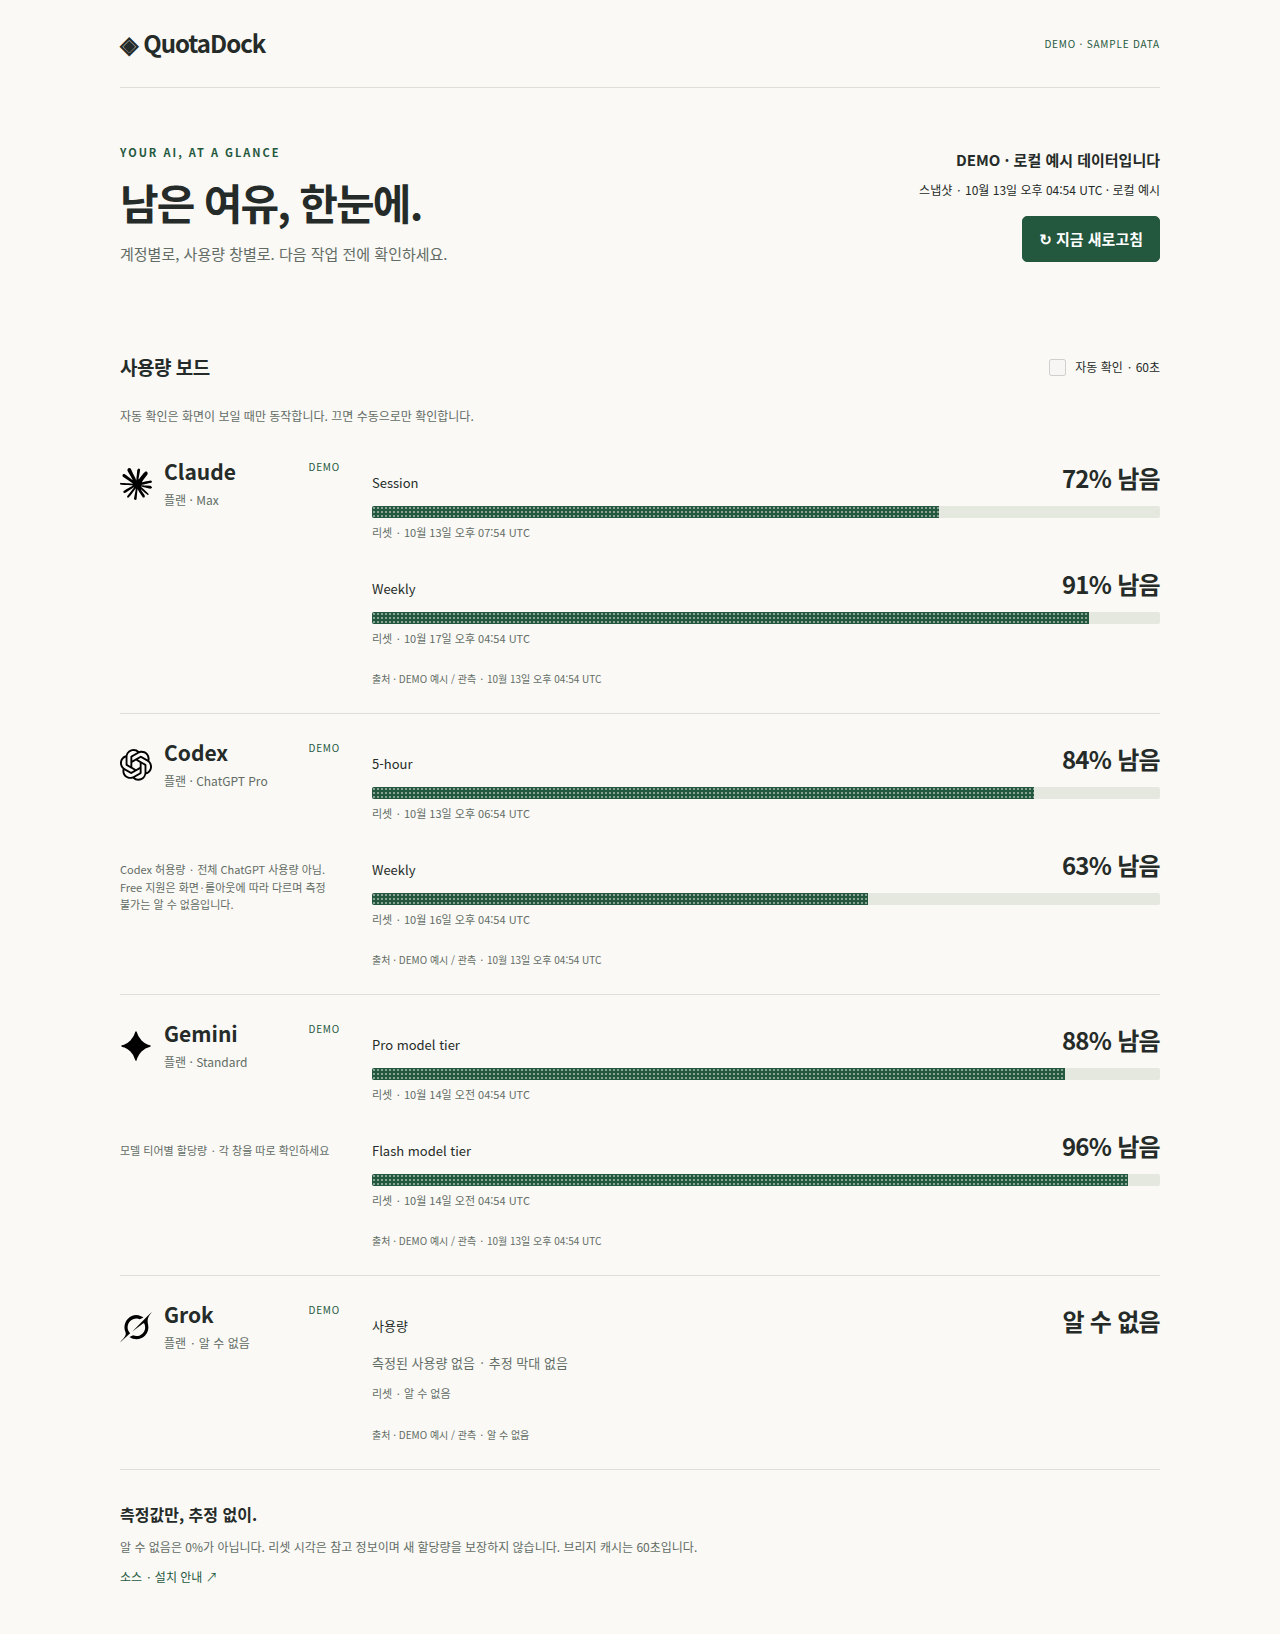
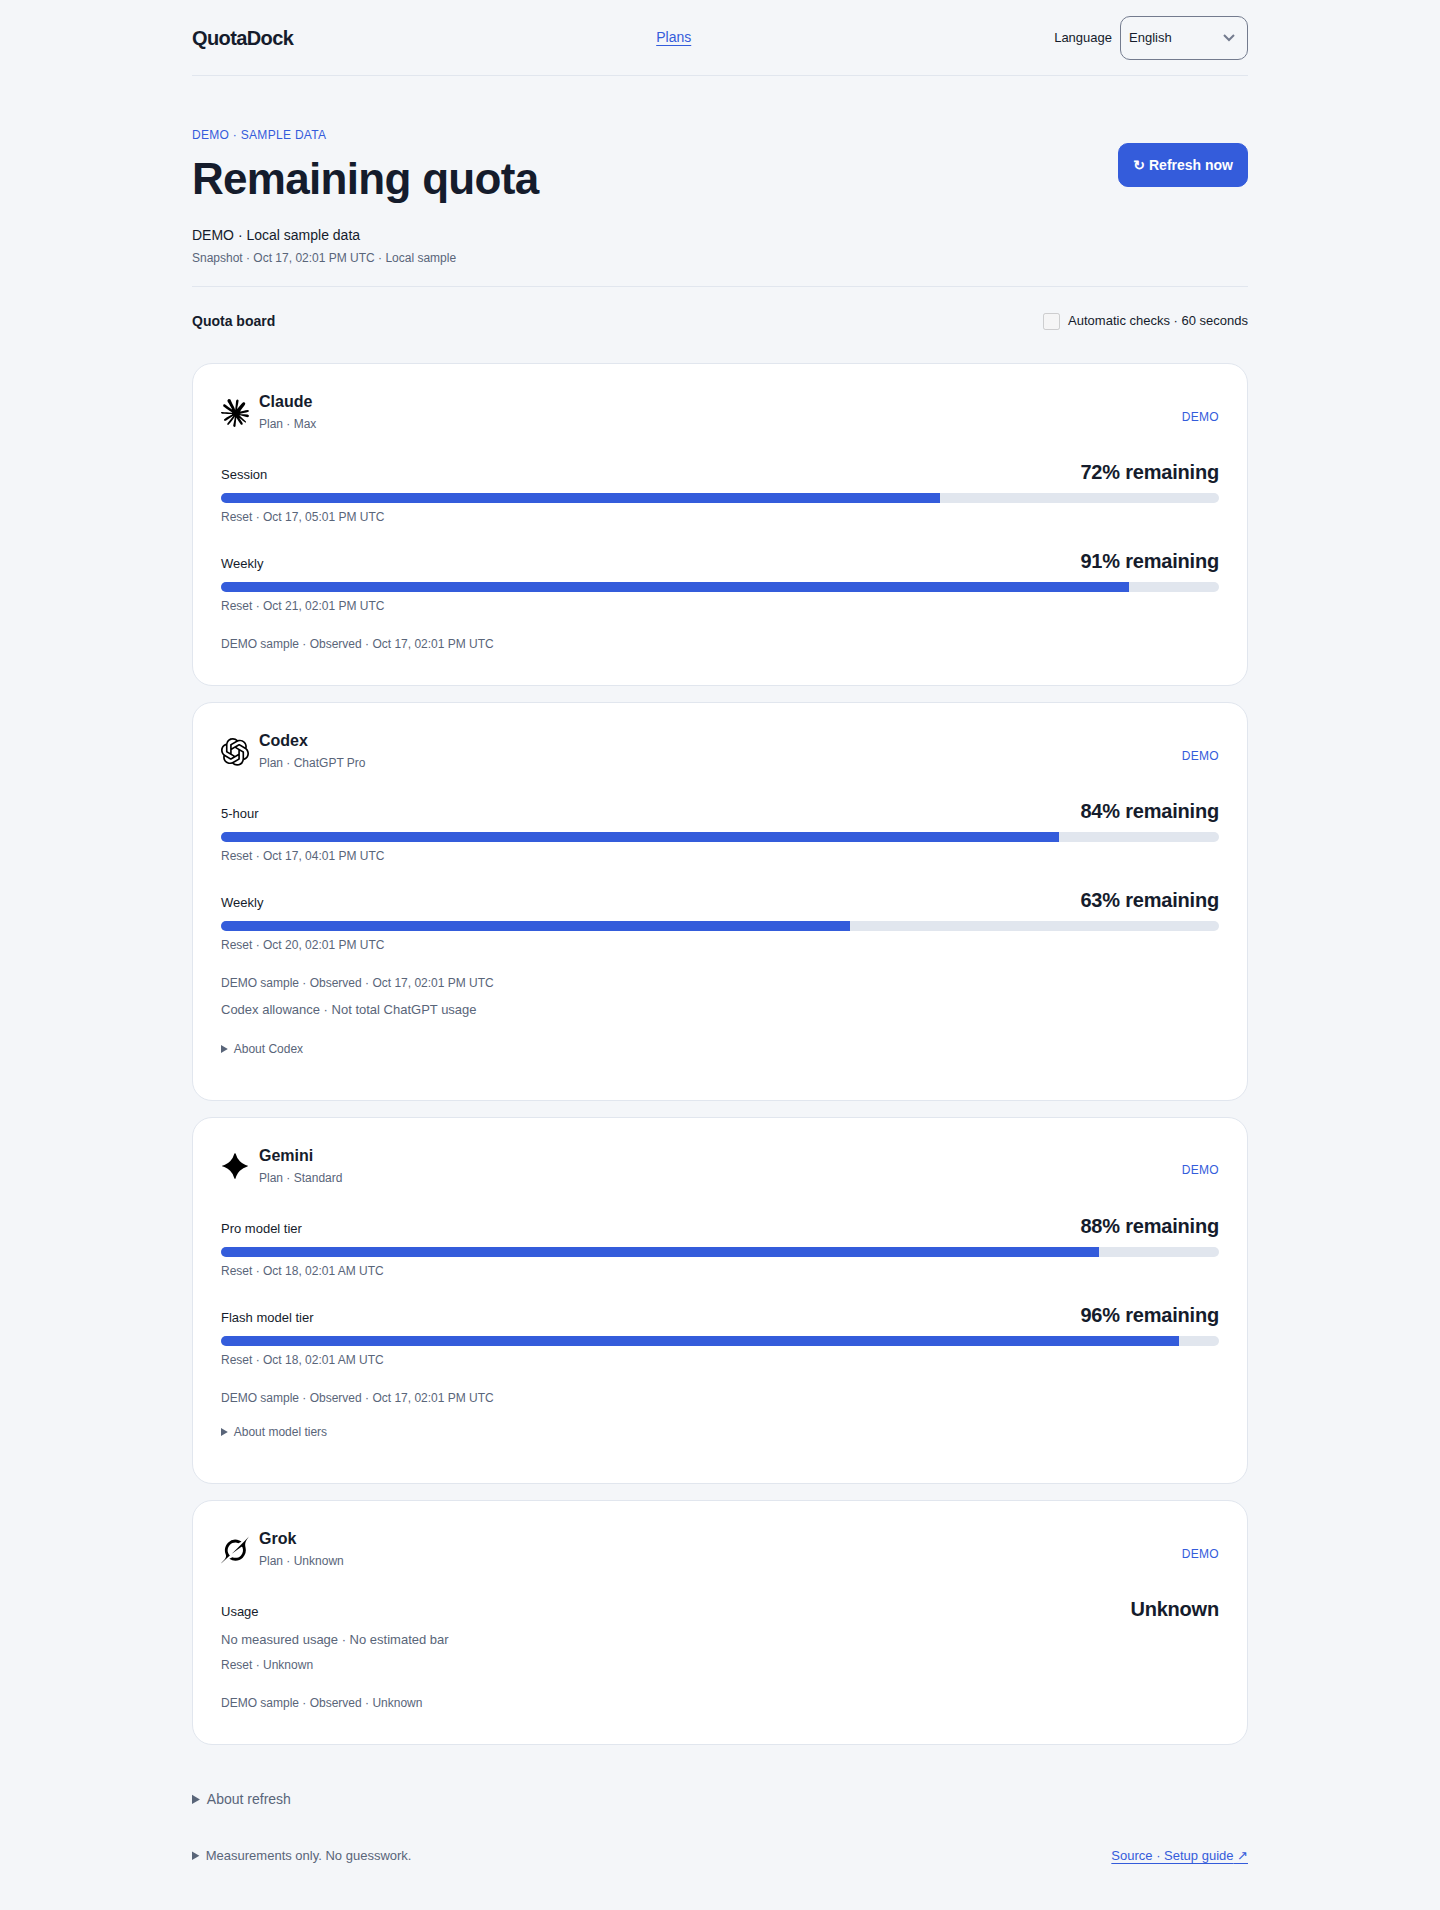
fix(ui): preserve compact quota metadata and large-text headings
Give selected-account widgets readable observation timestamps and complete period labels without shrinking essential content. Stack setup branding at accessibility sizes and refresh rendered README previews.

Amp-Thread-ID: https://ampcode.com/threads/T-01a13592-6ef0-763a-87e0-753ebe028b15

diff --git a/apple/Shared/WidgetContent.swift b/apple/Shared/WidgetContent.swift
@@ -13,6 +13,11 @@ struct AccountSurfaceContent: View {
         guard let reading = account?.reading, let observed = reading.observedAt else { return DockL10n.text("Not observed") }
         return DockL10n.format("%@ · %@", DockL10n.text(reading.isStale(at: date) ? "Stale" : "Observed"), DockL10n.date(observed))
     }
+    private var compactFreshness: String {
+        guard let reading = account?.reading, let observed = reading.observedAt else { return DockL10n.text("Not observed") }
+        let timestamp = observed.formatted(.dateTime.year().month(.twoDigits).day(.twoDigits).hour().minute().locale(DockL10n.locale))
+        return DockL10n.format("%@ · %@", DockL10n.text(reading.isStale(at: date) ? "Stale" : "Observed"), timestamp)
+    }
     private var status: String {
         DockL10n.text(account?.observedAt == nil ? "Not observed" : account?.reading.isStale(at: date) == true ? "Stale" : "Cached")
     }
@@ -67,24 +72,34 @@ struct AccountSurfaceContent: View {
                 Spacer(minLength: 0)
                 Text(identifier).monospaced().foregroundStyle(.secondary)
             }.font(.caption2).lineLimit(1).minimumScaleFactor(0.8)
-            if surface != .rectangular && surface != .medium {
+            if surface == .large {
                 Text(account?.plan ?? DockL10n.text("Plan unknown")).font(.caption2).foregroundStyle(.secondary)
             }
-            HStack(spacing: 3) {
-                Text(window.map(QuotaPresentation.window) ?? DockL10n.text("Window unavailable")).lineLimit(1)
-                Spacer(minLength: 0)
-                Text(value).font(surface == .small ? .title2.weight(.semibold) : .caption.weight(.semibold))
-                    .monospacedDigit().fixedSize()
-            }.font(surface == .rectangular ? .caption2 : .caption)
+            if surface == .small {
+                VStack(alignment: .leading, spacing: 2) {
+                    Text(window.map(QuotaPresentation.window) ?? DockL10n.text("Window unavailable"))
+                        .font(.caption2).fixedSize(horizontal: false, vertical: true)
+                    Text(value).font(.title2.weight(.semibold)).monospacedDigit().fixedSize()
+                }
+            } else {
+                HStack(spacing: 3) {
+                    Text(window.map(QuotaPresentation.window) ?? DockL10n.text("Window unavailable"))
+                        .lineLimit(surface == .rectangular ? 2 : 1)
+                        .fixedSize(horizontal: false, vertical: true)
+                    Spacer(minLength: 0)
+                    Text(value).font(.caption.weight(.semibold)).monospacedDigit().fixedSize()
+                }.font(surface == .rectangular ? .caption2 : .caption)
+            }
             if let remaining = window?.clampedRemaining {
                 ProgressView(value: remaining, total: 100).tint(DockTheme.mint).accessibilityHidden(true)
             }
-            if surface != .rectangular && surface != .medium, let reset = window?.resetsAt {
+            if surface == .large, let reset = window?.resetsAt {
                 Text(reset <= date ? DockL10n.text("Reset passed · awaiting observation") :
                     DockL10n.format("Reset: %@", DockL10n.date(reset))).font(.system(size: 9))
             }
-            Text(freshness).font(.system(size: 9)).foregroundStyle(.secondary)
-            if surface != .rectangular && surface != .medium {
+            Text(compactFreshness).font(.caption2).foregroundStyle(.secondary)
+                .fixedSize(horizontal: false, vertical: true)
+            if surface == .large {
                 Text(DockL10n.text("Cached readings · not live")).font(.system(size: 9))
             }
         }

diff --git a/apple/iOS/FirstRun.swift b/apple/iOS/FirstRun.swift
@@ -162,9 +162,12 @@ struct FirstRunView: View {
             ScrollViewReader { scroll in
                 ScrollView {
                     VStack(alignment: .leading, spacing: 24) {
-                        HStack {
+                        let headerLayout = previewTypeSize.isAccessibilitySize
+                            ? AnyLayout(VStackLayout(alignment: .leading, spacing: 8))
+                            : AnyLayout(HStackLayout())
+                        headerLayout {
                             Text("QUOTADOCK").font(.caption.weight(.semibold)).tracking(2)
-                            Spacer()
+                            if !previewTypeSize.isAccessibilitySize { Spacer() }
                             Text(setupFormat("Step %@ of 3", String(progress.step.index + 1)))
                                 .font(.caption).foregroundStyle(.secondary)
                         }.id("setup-top")
